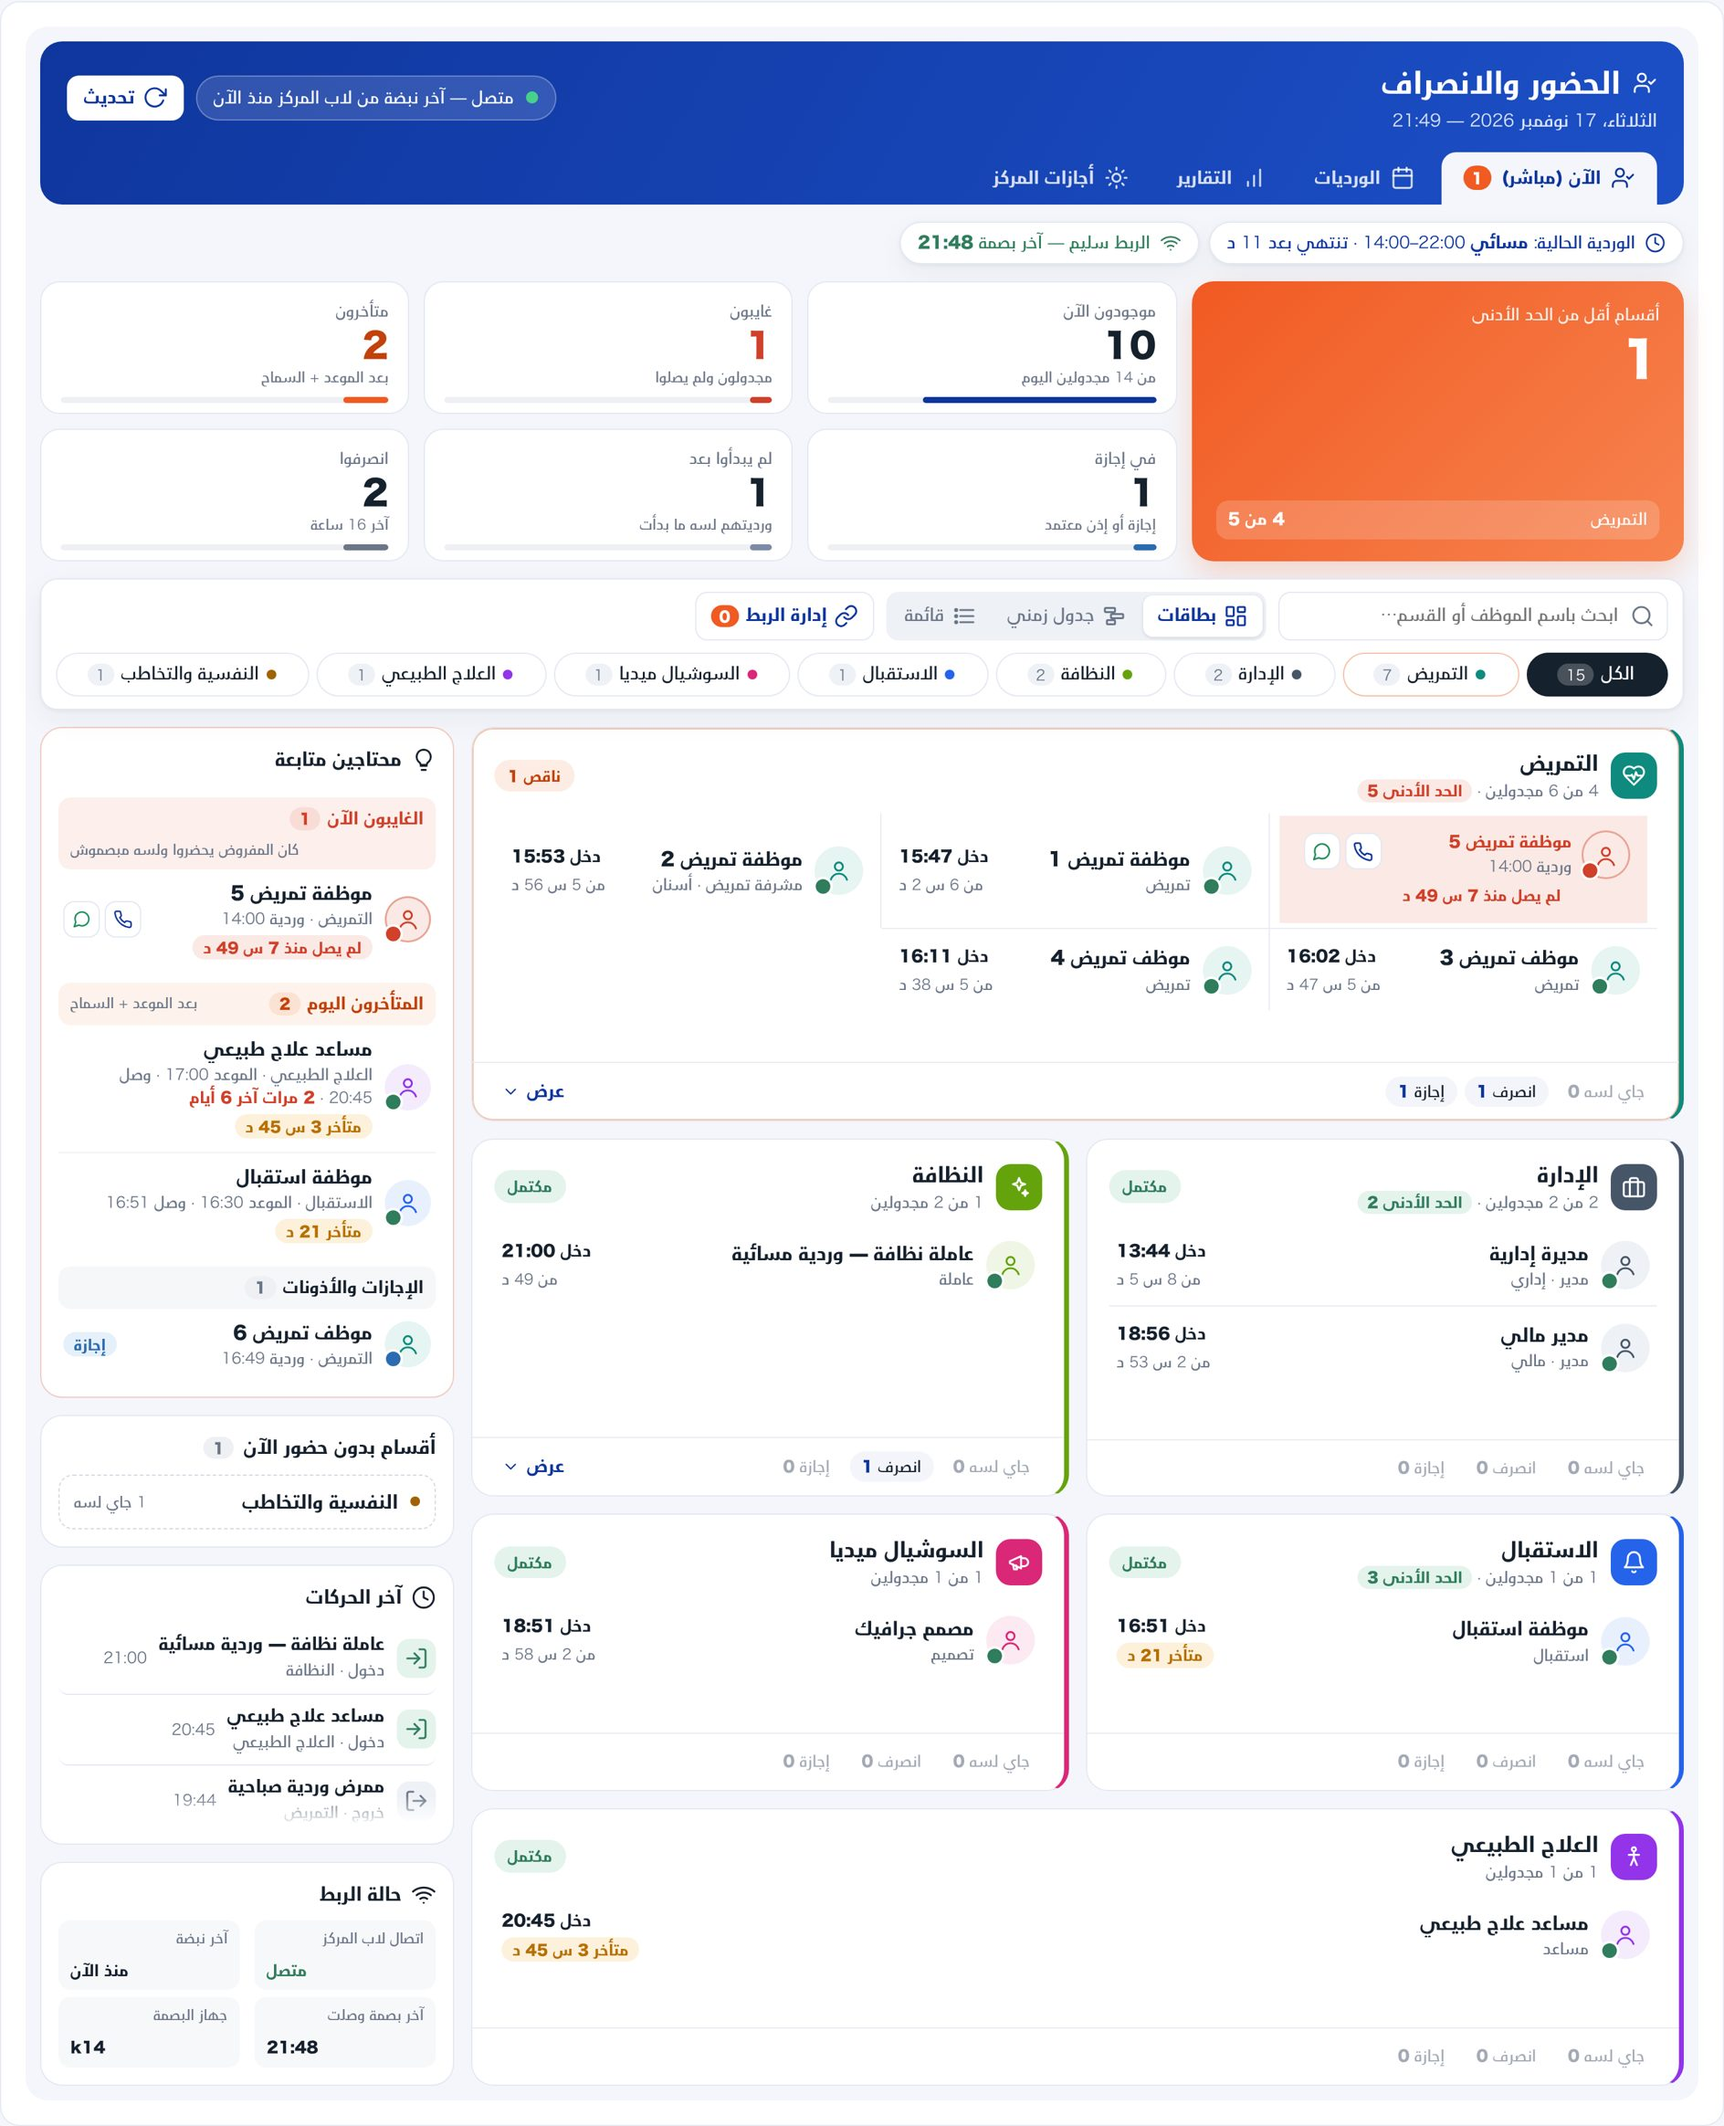
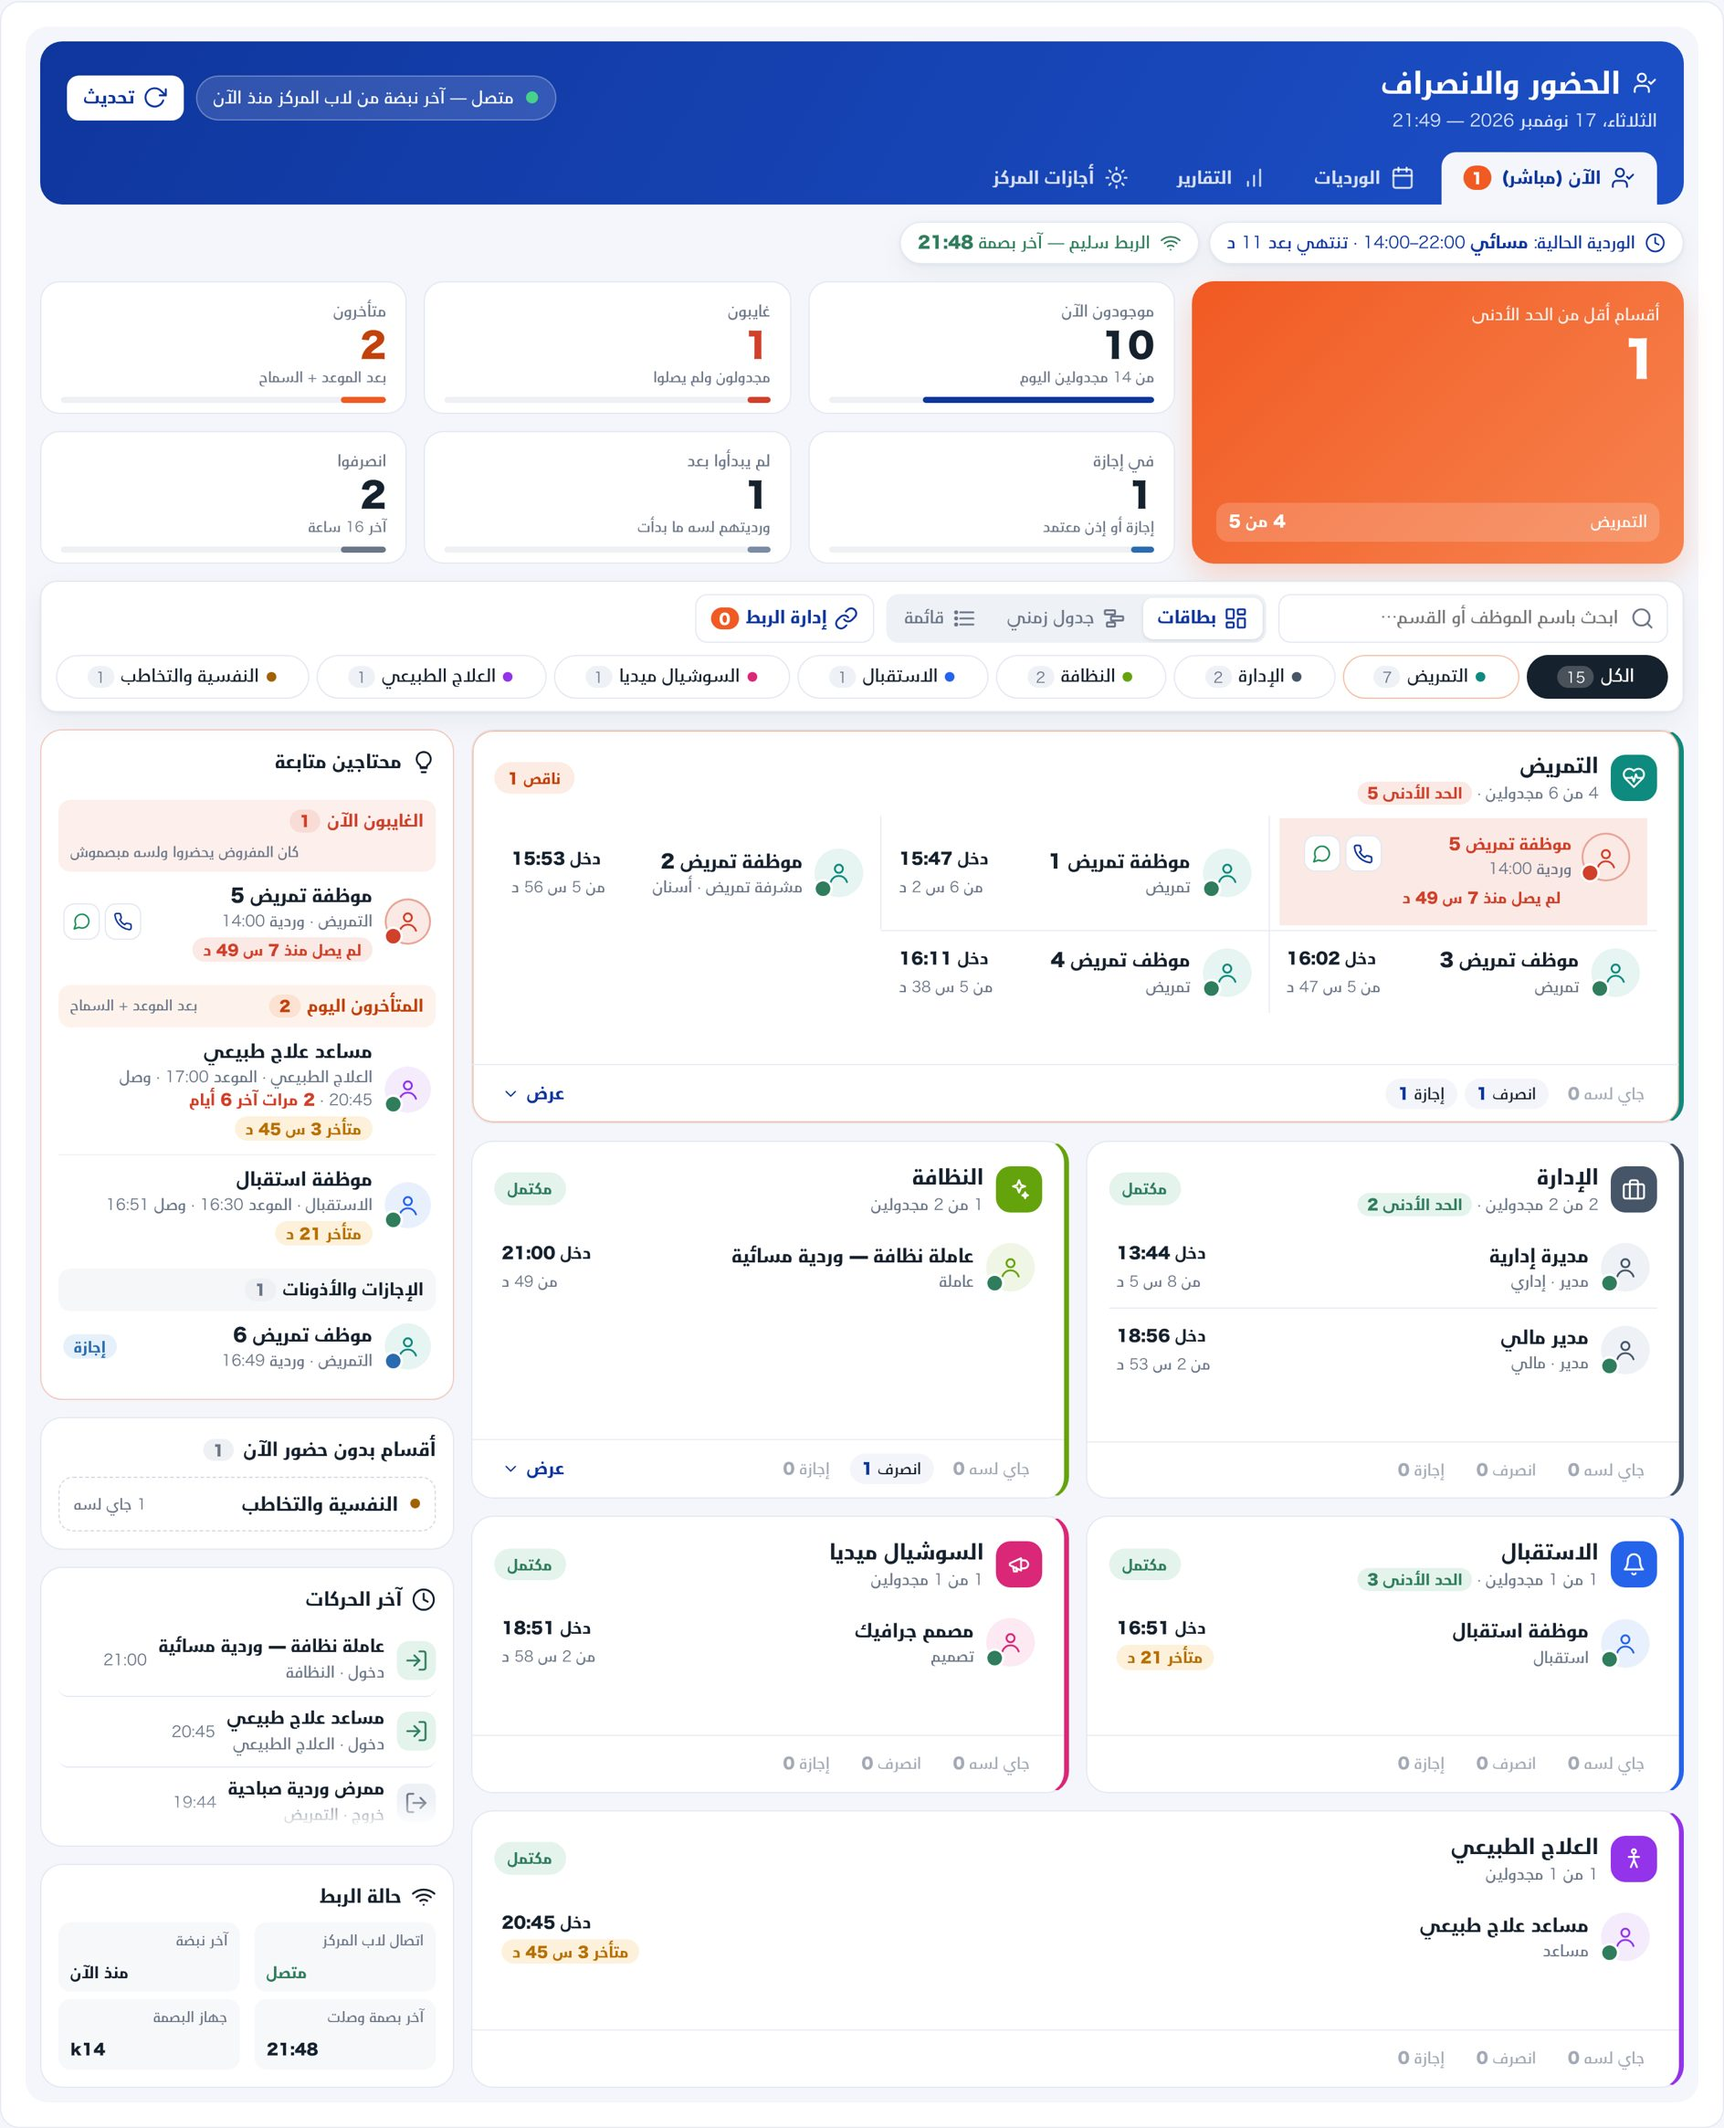
HR presence: one gutter value everywhere (14px, 12px on phones)
Gaps were a mix of 12px and 14px between the hero, tiles, filter bar, cards and side column.
Now a single --pv-gap token; verified with docs/ui-references/tools/layout-check.cjs at 1440/1024/390.

Claude-Session: https://claude.ai/code/session_01UqVZHZihapbfrPRQkyZErA

diff --git a/assets/css/hr-presence.css b/assets/css/hr-presence.css
@@ -1,16 +1,18 @@
 /* «الحضور الآن» redesign (2026-11-17). Loaded after attendance-hub.css; everything is scoped to the presence board.
    Reference: docs/ui-references/mockups/hr-presence.html (owner-approved). Swnw colours and local fonts only. */
-.att-hub [data-hr-presence]{--ease:cubic-bezier(.2,.8,.2,1);--line:#E9ECF3}
+.att-hub [data-hr-presence]{--ease:cubic-bezier(.2,.8,.2,1);--line:#E9ECF3;--pv-gap:14px}
+/* one gap value for every gutter on the board (checked by docs/ui-references/tools/layout-check.cjs) */
+.att-hub [data-hr-presence] .strip{margin-bottom:0}
 
 /* ---------- top: hero + six filter tiles ---------- */
-.att-hub [data-hr-presence] .pv-top{display:grid;grid-template-columns:minmax(260px,1.3fr) 3fr;gap:12px;margin:14px 0}
+.att-hub [data-hr-presence] .pv-top{display:grid;grid-template-columns:minmax(260px,1.3fr) 3fr;gap:var(--pv-gap);margin:var(--pv-gap) 0}
 .att-hub [data-hr-presence] .pv-hero{background:linear-gradient(135deg,#F15A22,#F7834F);color:#fff;border-radius:18px;padding:18px 20px;display:flex;flex-direction:column;box-shadow:0 10px 24px rgba(241,90,34,.22)}
 .att-hub [data-hr-presence] .pv-hero.ok{background:linear-gradient(135deg,#2F7D5C,#3E9A73);box-shadow:0 10px 24px rgba(47,125,92,.18)}
 .att-hub [data-hr-presence] .pv-hero>small{font-size:13px;opacity:.9}
 .att-hub [data-hr-presence] .pv-hero>b{font-size:40px;line-height:1.1;margin:4px 0 10px}
 .att-hub [data-hr-presence] .pv-hero-l{margin-top:auto;display:flex;flex-wrap:wrap;gap:6px}
 .att-hub [data-hr-presence] .pv-hero-l span{flex:1 1 auto;background:rgba(255,255,255,.18);border-radius:10px;padding:6px 10px;display:flex;justify-content:space-between;gap:10px;font-size:13px;white-space:nowrap}
-.att-hub [data-hr-presence] .kpis{grid-template-columns:repeat(3,1fr);margin:0;gap:12px}
+.att-hub [data-hr-presence] .kpis{grid-template-columns:repeat(3,1fr);margin:0;gap:var(--pv-gap)}
 .att-hub [data-hr-presence] .kpi{display:flex;flex-direction:column;align-items:flex-start;gap:2px;padding:14px 16px;border-radius:16px;box-shadow:none;cursor:pointer;position:relative;overflow:hidden;transition:transform .22s var(--ease),box-shadow .22s var(--ease),border-color .22s}
 .att-hub [data-hr-presence] .kpi .l{font-size:12.5px;color:var(--muted)}
 .att-hub [data-hr-presence] .kpi b{font-size:28px;line-height:1.15}
@@ -39,9 +41,9 @@
 .att-hub [data-hr-presence] .tool:hover{transform:translateY(-1px);background:var(--primary-t)}
 
 /* ---------- two columns, same height: wide department cards (right) + side column (left) ---------- */
-.att-hub [data-hr-presence] .layout{grid-template-columns:minmax(0,1fr) 340px;align-items:stretch}
+.att-hub [data-hr-presence] .layout{grid-template-columns:minmax(0,1fr) 340px;align-items:stretch;gap:var(--pv-gap);margin-top:var(--pv-gap)}
 .att-hub [data-hr-presence] .layout>main{display:flex;flex-direction:column;min-width:0}
-.att-hub [data-hr-presence] .cards{columns:auto;display:grid;grid-template-columns:1fr 1fr;gap:14px;flex:1;align-content:stretch}
+.att-hub [data-hr-presence] .cards{columns:auto;display:grid;grid-template-columns:1fr 1fr;gap:var(--pv-gap);flex:1;align-content:stretch}
 .att-hub [data-hr-presence] .cards>.dept{margin:0}
 .att-hub [data-hr-presence] .dept{display:flex;flex-direction:column;border-radius:18px;box-shadow:none;border-inline-start:4px solid var(--col);transition:transform .22s var(--ease),box-shadow .22s var(--ease)}
 .att-hub [data-hr-presence] .dept.wide{grid-column:1/-1}
@@ -95,7 +97,7 @@
 .att-hub [data-hr-presence] .pv-foot .more[aria-expanded=true] .ic{transform:rotate(180deg)}
 
 /* ---------- side column ---------- */
-.att-hub [data-hr-presence] .side{display:flex;flex-direction:column;gap:14px;min-height:0}
+.att-hub [data-hr-presence] .side{display:flex;flex-direction:column;gap:var(--pv-gap);min-height:0}
 .att-hub [data-hr-presence] .side .panel{border-radius:18px;box-shadow:none}
 .att-hub [data-hr-presence] .pv-follow{border-color:#F3C9C1}
 .att-hub [data-hr-presence] .pv-follow .trio{display:block;margin:0}
@@ -153,7 +155,8 @@
   .att-hub [data-hr-presence] .pv-top{grid-template-columns:1fr}
 }
 @media(max-width:900px){
-  .att-hub [data-hr-presence] .kpis{grid-template-columns:repeat(3,1fr);gap:8px}
+  .att-hub [data-hr-presence]{--pv-gap:12px}
+  .att-hub [data-hr-presence] .kpis{grid-template-columns:repeat(3,1fr)}
   .att-hub [data-hr-presence] .kpi{padding:10px 12px}
   .att-hub [data-hr-presence] .kpi b{font-size:22px}
   .att-hub [data-hr-presence] .kpi small{display:none}

diff --git a/index.html b/index.html
@@ -42,7 +42,7 @@
 <link rel="stylesheet" href="assets/css/finance-account-statements.css?v=account-statements-20261021-4">
 <link rel="stylesheet" href="assets/css/workforce-prices.css?v=contract-prices-20261024-3">
 <link rel="stylesheet" href="assets/css/attendance-hub.css?v=closures-20261115-1">
-<link rel="stylesheet" href="assets/css/hr-presence.css?v=presence-v2-20261117-1">
+<link rel="stylesheet" href="assets/css/hr-presence.css?v=presence-v2-20261117-2">
 <link rel="stylesheet" href="assets/css/staff-profile.css?v=home-link-20261117-1">
 <link rel="stylesheet" href="assets/css/workspace-navigation.css?v=organize-20261025-3">
 <link rel="stylesheet" href="assets/css/scroll-top.css?v=scroll-top-20261025-1">
